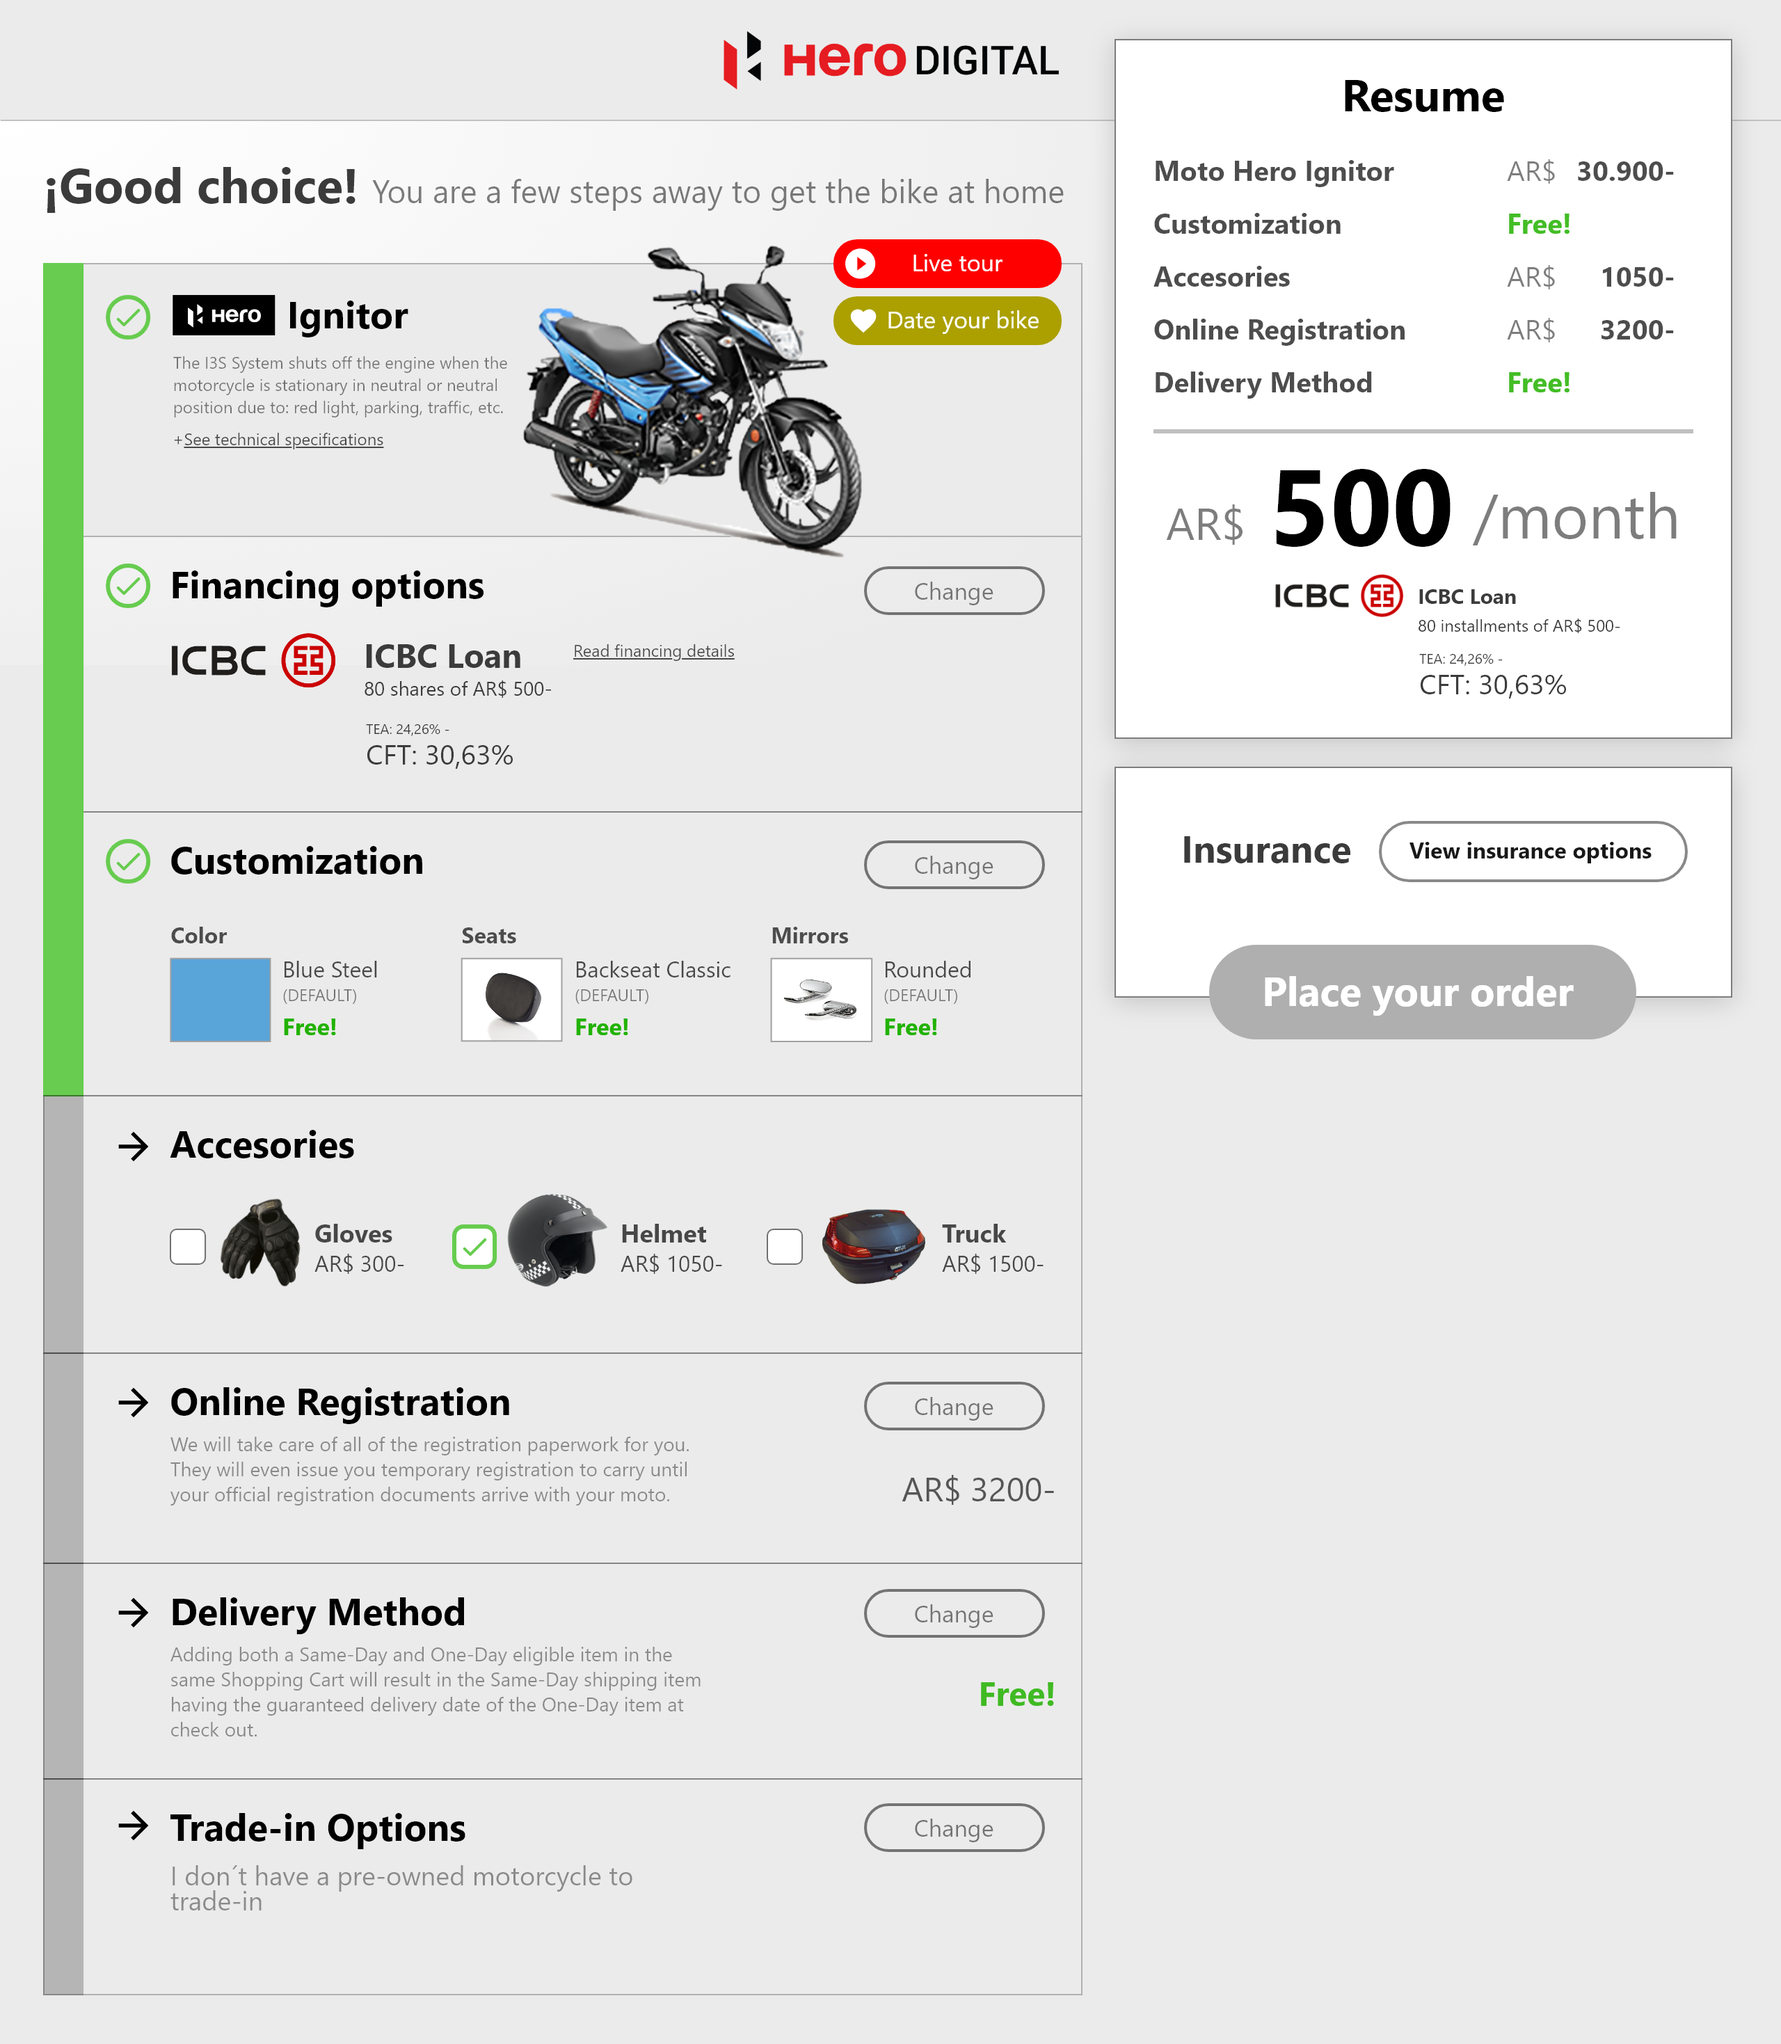
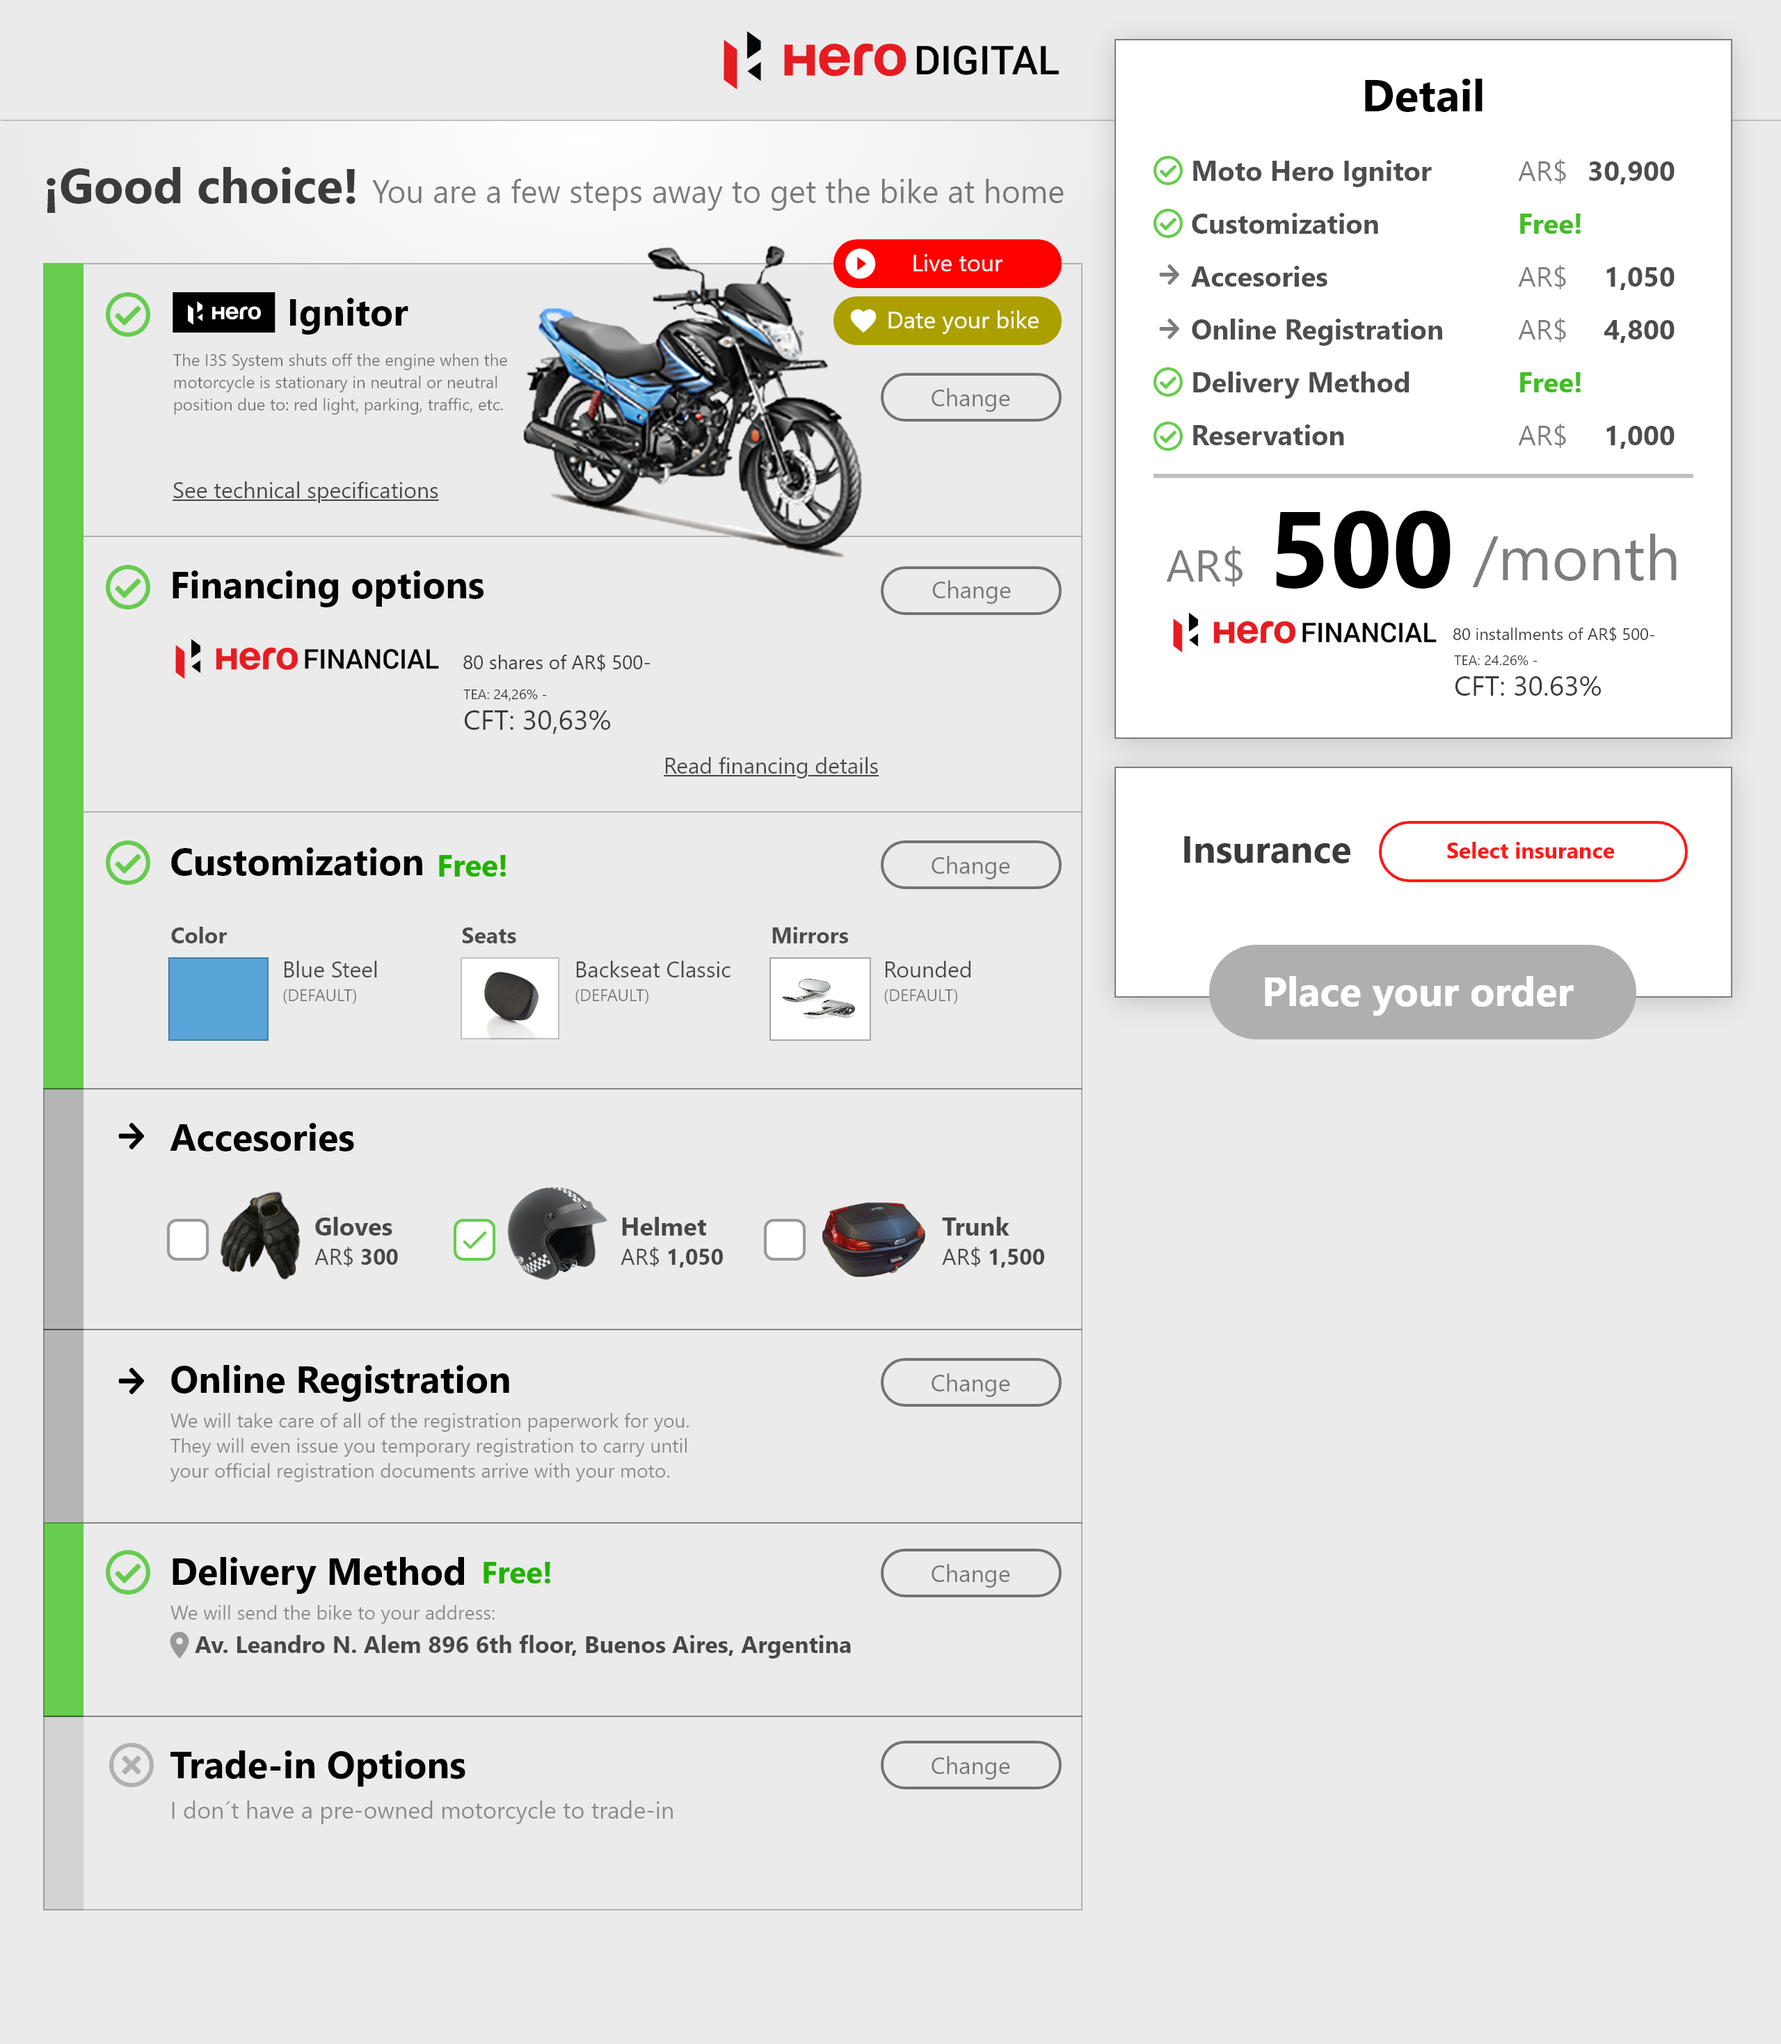
Fixed styles and finished the routing

diff --git a/src/components/App.css b/src/components/App.css
@@ -1,3 +1,9 @@
+body {
+  background-color: #ebebeb;
[1 lines of base64/hex data omitted]
+  background-repeat: repeat-x;
+}
+
 .App {
   text-align: center;
 }

diff --git a/src/components/ImagePages/FinancingIMGPage.jsx b/src/components/ImagePages/FinancingIMGPage.jsx
@@ -13,60 +13,50 @@ class FinancingIMGPage extends Component {
           size="huge"
           style={{
             position: 'absolute',
-            top: '264px',
-            left: '382px',
-            width: '574px',
-            height: '50px',
+            width: 544,
+            left: 368,
+            height: 48,
+            top: 270,
           }}
         />
         <Input
           size="huge"
           style={{
             position: 'absolute',
-            top: '380px',
-            left: '382px',
-            width: '287px',
-            height: '50px',
+            width: 544,
+            left: 368,
+            height: 48,
+            top: 380,
           }}
         />
         <Input
           size="huge"
           style={{
             position: 'absolute',
-            left: '667px',
-            top: '380px',
-            width: '288px',
-            height: '50px',
-          }}
-        />
-        <div
-          style={{
-            position: 'absolute',
-            top: '510px',
-            left: '350px',
-            width: '600px',
-            height: '70px',
-            backgroundColor: '#ebebeb',
+            width: 324,
+            left: 588,
+            height: 48,
+            top: 380,
           }}
         />
         <Input
           size="huge"
           style={{
             position: 'absolute',
-            top: '510px',
-            left: '382px',
-            width: '574px',
-            height: '50px',
+            width: 544,
+            left: 368,
+            height: 45,
+            top: 501,
           }}
         />
         <Link
           to="/financing-loading-img"
           style={{
             position: 'absolute',
-            width: '221px',
-            height: '58px',
-            top: '599px',
-            left: '559px',
+            width: 352.58,
+            height: 55.93,
+            top: 597.98,
+            left: 464,
           }}
         />
         <Link // cancel and go back to dashboard

diff --git a/src/components/ImagePages/CustomizationIMGPage/index.jsx b/src/components/ImagePages/CustomizationIMGPage/index.jsx
@@ -57,9 +57,10 @@ class CustomizationIMGPage extends Component {
           src={this.bikeImage}
           style={{
             position: 'absolute',
-            left: 21,
-            top: 239,
             width: 640,
+            left: 0,
+            height: 399,
+            top: 220,
           }}
         />
         <div
@@ -69,10 +70,11 @@ class CustomizationIMGPage extends Component {
           style={{
             cursor: 'pointer',
             position: 'absolute',
-            left: 732,
-            top: 605,
-            width: 126,
-            height: 36,
+
+            width: 118.86,
+            left: 701.24,
+            height: 31.81,
+            top: 586,
           }}
         />
         <div
@@ -82,10 +84,10 @@ class CustomizationIMGPage extends Component {
           style={{
             cursor: 'pointer',
             position: 'absolute',
-            left: 941,
-            top: 605,
-            width: 126,
-            height: 36,
+            width: 118.86,
+            left: 901.24,
+            height: 31.81,
+            top: 586,
           }}
         />
         <div
@@ -95,10 +97,10 @@ class CustomizationIMGPage extends Component {
           style={{
             cursor: 'pointer',
             position: 'absolute',
-            left: 1150,
-            top: 605,
-            width: 126,
-            height: 36,
+            width: 118.86,
+            left: 1101.41,
+            height: 31.81,
+            top: 586,
           }}
         />
         <Link
@@ -106,10 +108,10 @@ class CustomizationIMGPage extends Component {
           tabIndex={0}
           style={{
             position: 'absolute',
-            left: 891,
-            top: 713,
-            width: 420,
-            height: 61,
+            width: 398,
+            left: 854,
+            height: 55.93,
+            top: 682.98,
           }}
         />
         <Link // cancel and go back to dashboard

diff --git a/src/components/ImagePages/Dashboard03IMGPage.jsx b/src/components/ImagePages/Dashboard03IMGPage.jsx
@@ -1,8 +1,7 @@
 import React, { Component } from 'react';
 import { Link } from 'react-router-dom';
-import { Header } from 'semantic-ui-react';
 
-import imageUrl from './img/Dashboard02@2x.png'; // design of 03 not yet ready
+import imageUrl from './img/Dashboard03@2x.png';
 import IMGPage from './IMGPage';
 
 // In this dashboard the reservation is/should be payed
@@ -15,25 +14,12 @@ class Dashboard03IMGPage extends Component {
           to="customization-img"
           style={{
             position: 'absolute',
-            width: '136px',
-            height: '37px',
-            top: '631px',
-            left: '649px',
+            width: 130,
+            height: 35,
+            top: 604,
+            left: 633,
           }}
         />
-        <Header
-          style={{
-            position: 'absolute',
-            width: '136px',
-            height: '165px',
-            top: '200px',
-            left: '1000px',
-            fontSize: 'xx-large',
-            backgroundColor: 'red',
-          }}
-        >
-          FALTA LA RESERVA ACÁ
-        </Header>
       </IMGPage>
     );
   }

diff --git a/src/components/ImagePages/HomeIMGPage.jsx b/src/components/ImagePages/HomeIMGPage.jsx
@@ -11,30 +11,31 @@ class HomeIMGPage extends Component {
           to="dashboard-img"
           style={{
             position: 'absolute',
-            width: '166px',
-            height: '52px',
-            top: '689px',
-            left: '428px',
+            width: '158.12px',
+            left: '409.97px',
+            height: '46.59px',
+            top: '659.74px',
           }}
         />
         <Link
           to="livetour-img"
           style={{
             position: 'absolute',
-            width: '100px',
-            height: '35px',
-            top: '747px',
-            left: '396px',
+            width: 92.49,
+            left: 373.85,
+            height: 30.92,
+            top: 716.01,
+
           }}
         />
         <Link
           to="dateyourbike-img"
           style={{
             position: 'absolute',
-            width: '135px',
-            height: '29px',
-            top: '750px',
-            left: '504px',
+            width: 122.33,
+            left: 478,
+            height: 27,
+            top: 718,
           }}
         />
       </IMGPage>

diff --git a/src/components/ImagePages/DateYourBikeIMGPage.jsx b/src/components/ImagePages/DateYourBikeIMGPage.jsx
@@ -14,10 +14,10 @@ class DateYourBike extends Component {
           size="huge"
           style={{
             position: 'absolute',
-            width: '570px',
-            height: '49px',
-            top: '569px',
-            left: '405px',
+            width: 544 - 20,
+            left: 368 + 20,
+            height: 45,
+            top: 545,
             border: 'none',
             background: 'transparent',
           }}
@@ -32,10 +32,10 @@ class DateYourBike extends Component {
           to="/bikesent-img"
           style={{
             position: 'absolute',
-            width: '369px',
-            height: '58px',
-            left: '485px',
-            top: '1064px',
+            width: 352.58,
+            height: 55.93,
+            top: 1037.98,
+            left: 464,
           }}
         />
         <Link // cancel and go back to dashboard

diff --git a/src/components/ImagePages/Dashboard01IMGPage.jsx b/src/components/ImagePages/Dashboard01IMGPage.jsx
@@ -14,20 +14,20 @@ class Dashboard01IMGPage extends Component {
           to="livetour-img"
           style={{
             position: 'absolute',
-            width: '172px',
-            height: '37px',
-            top: '180px',
-            left: '626px',
+            width: 164,
+            height: 35,
+            top: 172,
+            left: 599,
           }}
         />
         <Link
           to="financing-img"
           style={{
             position: 'absolute',
-            width: '137px',
-            height: '39px',
-            top: '424px',
-            left: '649px',
+            width: 130,
+            height: 35,
+            top: 407,
+            left: 633,
           }}
         />
       </IMGPage>

diff --git a/src/components/LiveTourPage/LiveTourUserPage.jsx b/src/components/LiveTourPage/LiveTourUserPage.jsx
@@ -11,18 +11,18 @@ import liveTourHomeImageUrl from './images/LiveTourHome@2x.png';
 const joinTourButtonStyles = {
   cursor: 'pointer',
   position: 'absolute',
-  width: '352px',
-  height: '55px',
-  left: '495px',
-  top: '620px',
+  width: 352.58,
+  left: 464,
+  height: 55.93,
+  top: 593.98,
 };
 const leaveTourButtonStyles = {
   cursor: 'pointer',
   position: 'absolute',
-  width: '352px',
-  height: '55px',
-  left: '495px',
-  top: '705px',
+  width: 352.58,
+  left: 464,
+  height: 55.93,
+  top: 671.98,
 };
 
 const videoTrackStyles = {

diff --git a/src/components/ImagePages/FinancingIMGOptionsPage.jsx b/src/components/ImagePages/FinancingIMGOptionsPage.jsx
@@ -11,10 +11,10 @@ class FinancingIMGOptionsPage extends Component {
           to="/dashboard2-img"
           style={{
             position: 'absolute',
-            width: '417px',
-            height: '60px',
-            top: '708px',
-            left: '461px',
+            width: 398,
+            left: 441,
+            height: 55.93,
+            top: 662.98,
           }}
         />
         <Link // cancel and go back to dashboard

diff --git a/src/components/ImagePages/BikeSentIMGPage.jsx b/src/components/ImagePages/BikeSentIMGPage.jsx
@@ -13,10 +13,10 @@ class BikeSentIMGPage extends Component {
           to="/dashboard3-img"
           style={{
             position: 'absolute',
-            width: '369px',
-            height: '59px',
-            left: '485px',
-            top: '677px',
+            width: 352.58,
+            left: 472,
+            height: 55.93,
+            top: 647.98,
           }}
         />
         <Link // cancel and go back to dashboard

diff --git a/src/components/ImagePages/InsuranceIMGPage.jsx b/src/components/ImagePages/InsuranceIMGPage.jsx
@@ -11,10 +11,10 @@ class InsuranceIMGPage extends Component {
           to="dashboard5-img"
           style={{
             position: 'absolute',
-            top: 677,
-            left: 487,
-            width: 364,
-            height: 60,
+            width: 370.58,
+            left: 455,
+            height: 55.93,
+            top: 647.98,
           }}
         />
         <Link // cancel and go back to dashboard

diff --git a/src/components/ImagePages/Dashboard02IMGPage.jsx b/src/components/ImagePages/Dashboard02IMGPage.jsx
@@ -14,10 +14,10 @@ class Dashboard02IMGPage extends Component {
           to="dateyourbike-img"
           style={{
             position: 'absolute',
-            width: '172px',
-            height: '37px',
-            top: '222px',
-            left: '626px',
+            width: 164,
+            left: 599,
+            height: 35,
+            top: 213,
           }}
         />
       </IMGPage>
